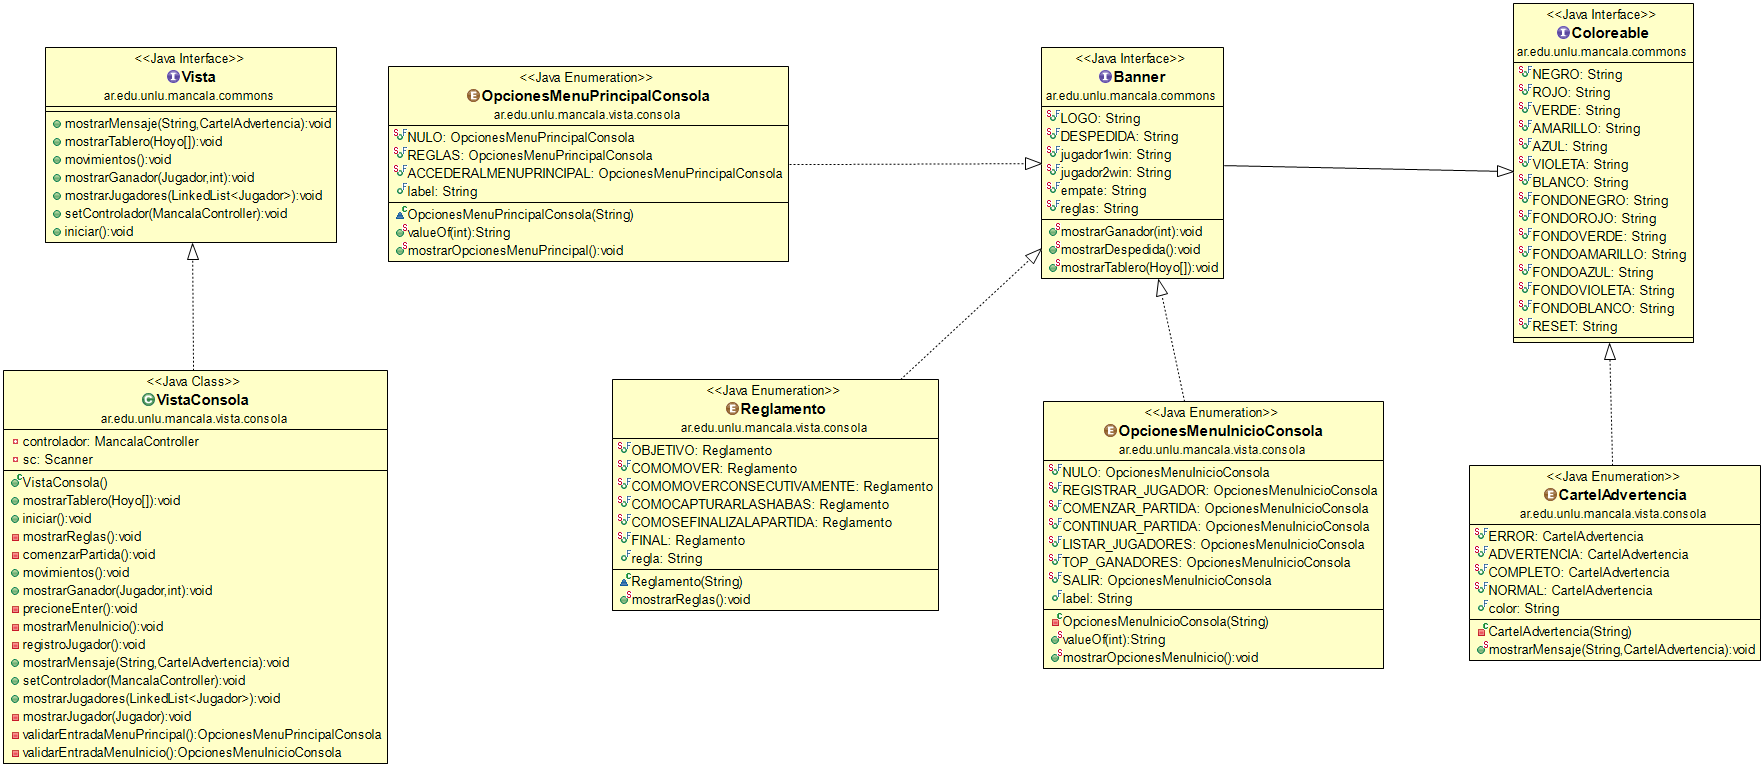
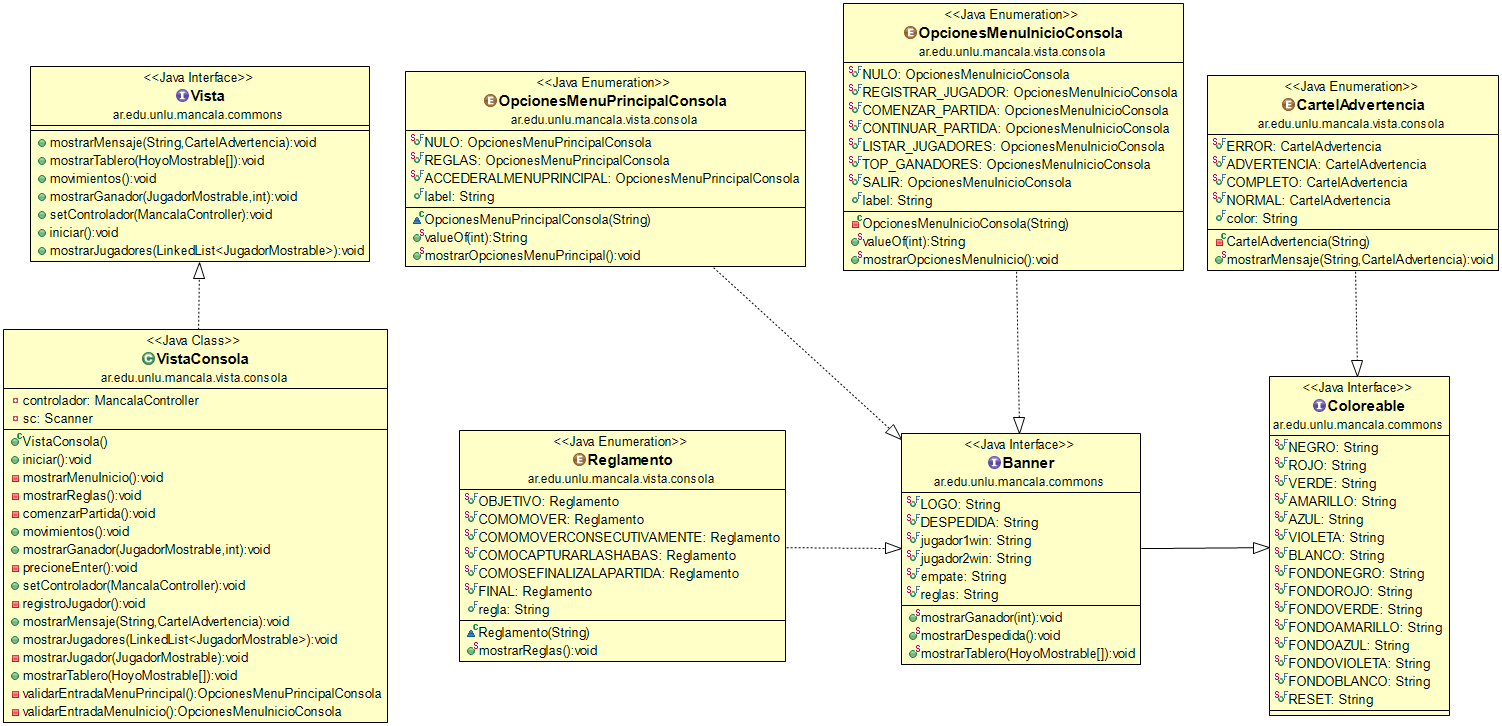
refactor de nombres y aplicacion de intefaces mostrables

diff --git a/src/ar/edu/unlu/mancala/vista/consola/VistaConsola.java b/src/ar/edu/unlu/mancala/vista/consola/VistaConsola.java
@@ -5,10 +5,8 @@ import java.util.Scanner;
 import ar.edu.unlu.mancala.commons.Banner;
 import ar.edu.unlu.mancala.commons.Vista;
 import ar.edu.unlu.mancala.controlador.MancalaController;
-import ar.edu.unlu.mancala.modelo.Hoyo;
-import ar.edu.unlu.mancala.modelo.IJugador;
-import ar.edu.unlu.mancala.modelo.Ihoyo;
-import ar.edu.unlu.mancala.modelo.Jugador;
+import ar.edu.unlu.mancala.modelo.JugadorMostrable;
+import ar.edu.unlu.mancala.modelo.HoyoMostrable;
 import ar.edu.unlu.mancala.modelo.Posicion;
 
 public class VistaConsola implements Vista {
@@ -107,7 +105,7 @@ public class VistaConsola implements Vista {
 	}
 
 	@Override
-	public void mostrarGanador(IJugador jugador, int numeroJugador) {
+	public void mostrarGanador(JugadorMostrable jugador, int numeroJugador) {
 		Banner.mostrarGanador(numeroJugador);
 		if (jugador != null)
 			this.mostrarJugador(jugador);
@@ -144,13 +142,13 @@ public class VistaConsola implements Vista {
 	}
 
 	@Override
-	public void mostrarJugadores(LinkedList<Jugador> jugadores) {
-		for (IJugador jugador : jugadores)
+	public void mostrarJugadores(LinkedList<JugadorMostrable> jugadores) {
+		for (JugadorMostrable jugador : jugadores)
 			mostrarJugador(jugador);
 		precioneEnter();
 	}
 
-	private void mostrarJugador(IJugador jugador) {
+	private void mostrarJugador(JugadorMostrable jugador) {
 		this.mostrarMensaje("ID: " + jugador.getId() + "-------------------------------------------------------",CartelAdvertencia.NORMAL);
 		this.mostrarMensaje("Nombre -> " + jugador.getNombre(), CartelAdvertencia.NORMAL);
 		this.mostrarMensaje("Jugadas -> " + jugador.getPartidasJugadas(), CartelAdvertencia.NORMAL);
@@ -160,7 +158,7 @@ public class VistaConsola implements Vista {
 		this.mostrarMensaje("------------------------------------------------------------", CartelAdvertencia.NORMAL);
 	}
 
-	public void mostrarTablero(Ihoyo[] hoyos) {
+	public void mostrarTablero(HoyoMostrable[] hoyos) {
 		Banner.mostrarTablero(hoyos);
 	}
 

diff --git a/src/ar/edu/unlu/mancala/controlador/MancalaController.java b/src/ar/edu/unlu/mancala/controlador/MancalaController.java
@@ -5,7 +5,7 @@ import java.util.LinkedList;
 import ar.edu.unlu.mancala.commons.Observer;
 import ar.edu.unlu.mancala.commons.TableroObservado;
 import ar.edu.unlu.mancala.commons.Vista;
-import ar.edu.unlu.mancala.modelo.IJugador;
+import ar.edu.unlu.mancala.modelo.JugadorMostrable;
 import ar.edu.unlu.mancala.modelo.Informe;
 import ar.edu.unlu.mancala.modelo.Jugador;
 import ar.edu.unlu.mancala.modelo.Partida;
@@ -124,7 +124,11 @@ public class MancalaController implements Observer {
 
 	public void topGanadores() {
 		jugadores.sort(Comparator.comparing(Jugador::getPartidasGanadas).reversed());
-		vistaConsola.mostrarJugadores(this.jugadores);
+		LinkedList<JugadorMostrable> jugadoresMostrables = new LinkedList<JugadorMostrable>();
+		this.jugadores.forEach(jugador -> {
+			jugadoresMostrables.add(jugador);
+		});
+		vistaConsola.mostrarJugadores(jugadoresMostrables);
 	}
 
 	public void agregarJugador(String nombre) {
@@ -139,7 +143,11 @@ public class MancalaController implements Observer {
 
 	public void obtenerJugadores() {
 		jugadores.sort(Comparator.comparing(Jugador::getId));
-		vistaConsola.mostrarJugadores(this.jugadores);
+		LinkedList<JugadorMostrable> jugadoresMostrables = new LinkedList<JugadorMostrable>();
+		this.jugadores.forEach(jugador -> {
+			jugadoresMostrables.add(jugador);
+		});
+		vistaConsola.mostrarJugadores(jugadoresMostrables);
 	}
 
 	public void continuarPartida() {

diff --git a/src/ar/edu/unlu/mancala/commons/Vista.java b/src/ar/edu/unlu/mancala/commons/Vista.java
@@ -4,8 +4,8 @@ import java.util.LinkedList;
 
 import ar.edu.unlu.mancala.controlador.MancalaController;
 import ar.edu.unlu.mancala.modelo.Hoyo;
-import ar.edu.unlu.mancala.modelo.IJugador;
-import ar.edu.unlu.mancala.modelo.Ihoyo;
+import ar.edu.unlu.mancala.modelo.JugadorMostrable;
+import ar.edu.unlu.mancala.modelo.HoyoMostrable;
 import ar.edu.unlu.mancala.modelo.Jugador;
 import ar.edu.unlu.mancala.vista.consola.CartelAdvertencia;
 
@@ -13,16 +13,16 @@ public interface Vista {
 
 	void mostrarMensaje(String string, CartelAdvertencia error);
 
-	void mostrarTablero(Ihoyo[] tablero);
+	void mostrarTablero(HoyoMostrable[] tablero);
 
 	void movimientos();
 
-	void mostrarGanador(IJugador jugador, int i);
+	void mostrarGanador(JugadorMostrable jugador, int i);
 
 	void setControlador(MancalaController controlador);
 
 	void iniciar();
 
-	void mostrarJugadores(LinkedList<Jugador> jugadores);
+	void mostrarJugadores(LinkedList<JugadorMostrable> jugadores);
 	
 }

diff --git a/src/ar/edu/unlu/mancala/commons/Banner.java b/src/ar/edu/unlu/mancala/commons/Banner.java
@@ -1,7 +1,7 @@
 package ar.edu.unlu.mancala.commons;
 
 
-import ar.edu.unlu.mancala.modelo.Ihoyo;
+import ar.edu.unlu.mancala.modelo.HoyoMostrable;
 import ar.edu.unlu.mancala.modelo.Posicion;
 
 public interface Banner extends Coloreable{
@@ -96,7 +96,7 @@ public interface Banner extends Coloreable{
     	System.out.println(DESPEDIDA);
     }
 	
-	public static void mostrarTablero(Ihoyo[] tablero) {
+	public static void mostrarTablero(HoyoMostrable[] tablero) {
 		String tableros = FONDONEGRO + "************************************************\n";
 		tableros += "*              << mancala game >>  " + AMARILLO + "S) Salir   " + BLANCO + " *\n";
 		tableros += "*                                              *\n";

diff --git a/src/ar/edu/unlu/mancala/modelo/Jugador.java b/src/ar/edu/unlu/mancala/modelo/Jugador.java
@@ -2,7 +2,7 @@ package ar.edu.unlu.mancala.modelo;
 
 import java.io.Serializable;
 
-public class Jugador implements Serializable, IJugador{
+public class Jugador implements Serializable, JugadorMostrable{
 	private static final long serialVersionUID = 1L;
 	public static int ids = 0;
 	private int id = ids ++;

diff --git a/src/ar/edu/unlu/mancala/modelo/Hoyo.java b/src/ar/edu/unlu/mancala/modelo/Hoyo.java
@@ -2,7 +2,7 @@ package ar.edu.unlu.mancala.modelo;
 
 import java.io.Serializable;
 
-public class Hoyo implements Ihoyo,Serializable{
+public class Hoyo implements HoyoMostrable,Serializable{
 
 	private static final long serialVersionUID = 1L;
 	private Posicion posicionAlfabetica;

diff --git a/src/ar/edu/unlu/mancala/modelo/HoyoMostrable.java b/src/ar/edu/unlu/mancala/modelo/HoyoMostrable.java
@@ -1,5 +1,5 @@
 package ar.edu.unlu.mancala.modelo;
 
-public interface Ihoyo {
+public interface HoyoMostrable {
 	int getCantHabas();
 }

diff --git a/src/ar/edu/unlu/mancala/modelo/JugadorMostrable.java b/src/ar/edu/unlu/mancala/modelo/JugadorMostrable.java
@@ -1,6 +1,6 @@
 package ar.edu.unlu.mancala.modelo;
 
-public interface IJugador {
+public interface JugadorMostrable {
 
 	int getId();
 
